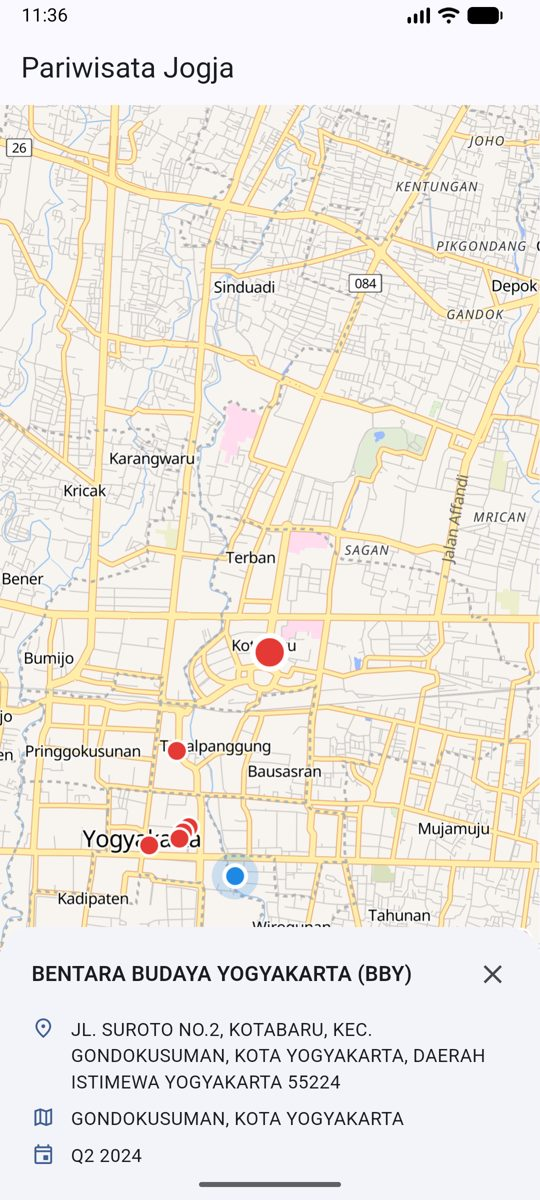
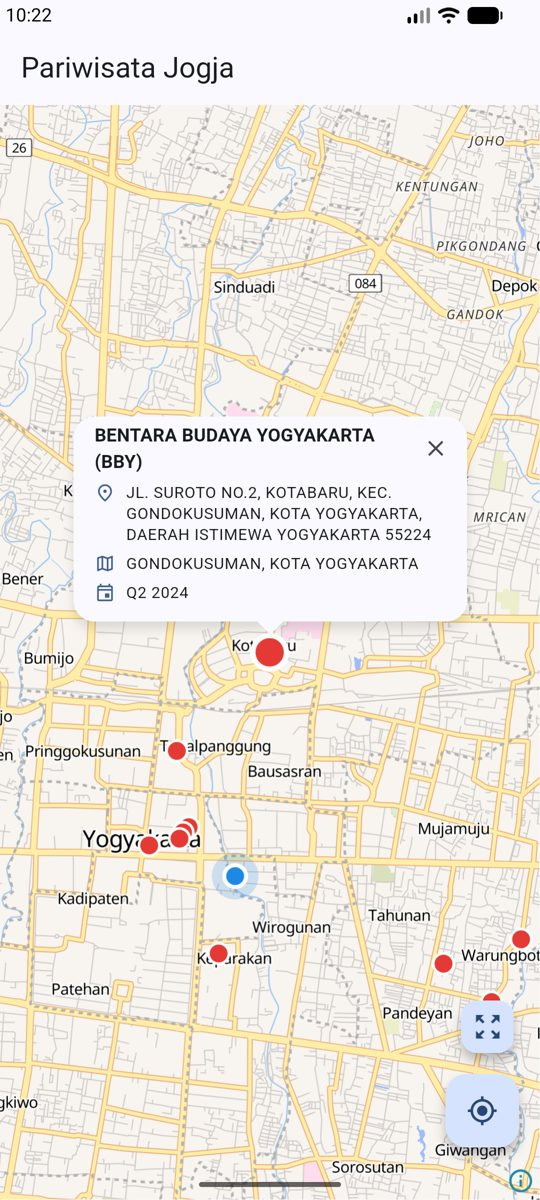
feat: anchor feature popup to the tapped point
The popup is now shown above the selected point instead of a bottom
sheet and follows it while the map pans or zooms.

diff --git a/lib/features/map/map_screen.dart b/lib/features/map/map_screen.dart
@@ -1,10 +1,12 @@
 import 'dart:math' show Point;
 
+import 'package:flutter/foundation.dart';
 import 'package:flutter/material.dart';
 import 'package:maplibre_gl/maplibre_gl.dart';
 
 import '../../core/constants/map_constants.dart';
 import '../../data/models/device_location.dart';
+import '../../data/models/layer_feature.dart';
 import '../../data/services/location_service.dart';
 import '../../data/services/mapid_layer_service.dart';
 import 'map_layer_renderer.dart';
@@ -28,7 +30,12 @@ class MapScreen extends StatefulWidget {
 }
 
 class _MapScreenState extends State<MapScreen> {
+  static const _popupOffset = 14.0;
+
   late final MapViewModel _viewModel;
+  final _popupAnchor = ValueNotifier<Offset?>(null);
+  bool _anchorUpdateRunning = false;
+  bool _anchorUpdatePending = false;
   MapLibreMapController? _mapController;
   MapLayerRenderer? _renderer;
   bool _mapReady = false;
@@ -47,7 +54,10 @@ class _MapScreenState extends State<MapScreen> {
 
   @override
   void dispose() {
-    _mapController?.onFeatureTapped.remove(_onFeatureTapped);
+    _mapController
+      ?..onFeatureTapped.remove(_onFeatureTapped)
+      ..removeListener(_updatePopupAnchor);
+    _popupAnchor.dispose();
     _viewModel
       ..removeListener(_syncMap)
       ..dispose();
@@ -55,7 +65,9 @@ class _MapScreenState extends State<MapScreen> {
   }
 
   void _onMapCreated(MapLibreMapController controller) {
-    _mapController = controller..onFeatureTapped.add(_onFeatureTapped);
+    _mapController = controller
+      ..onFeatureTapped.add(_onFeatureTapped)
+      ..addListener(_updatePopupAnchor);
     _renderer = MapLayerRenderer(controller);
   }
 
@@ -125,8 +137,10 @@ class _MapScreenState extends State<MapScreen> {
   ) {
     final feature = _viewModel.selectFeature(id);
     if (feature == null) return;
+    _popupAnchor.value = null;
     _renderer?.highlight(feature);
     _renderer?.focusOn(feature);
+    _updatePopupAnchor();
   }
 
   void _onMapClick(Point<double> point, LatLng coordinates) =>
@@ -134,8 +148,40 @@ class _MapScreenState extends State<MapScreen> {
 
   void _clearSelection() {
     _viewModel.clearSelection();
+    _popupAnchor.value = null;
     _renderer?.highlight(null);
   }
+
+  Future<void> _updatePopupAnchor() async {
+    if (_anchorUpdateRunning) {
+      _anchorUpdatePending = true;
+      return;
+    }
+    _anchorUpdateRunning = true;
+    do {
+      _anchorUpdatePending = false;
+      await _projectSelectedFeature();
+    } while (_anchorUpdatePending && mounted);
+    _anchorUpdateRunning = false;
+  }
+
+  Future<void> _projectSelectedFeature() async {
+    final feature = _viewModel.selectedFeature;
+    final renderer = _renderer;
+    if (feature == null || renderer == null) return;
+
+    final position = await renderer.screenPositionOf(
+      feature,
+      pixelRatio: _mapPixelRatio,
+    );
+    if (mounted && _viewModel.selectedFeature == feature) {
+      _popupAnchor.value = position;
+    }
+  }
+
+  double get _mapPixelRatio => defaultTargetPlatform == TargetPlatform.android
+      ? MediaQuery.devicePixelRatioOf(context)
+      : 1;
 
   @override
   Widget build(BuildContext context) {
@@ -147,6 +193,7 @@ class _MapScreenState extends State<MapScreen> {
         onMapCreated: _onMapCreated,
         onStyleLoadedCallback: _onStyleLoaded,
         onMapClick: _onMapClick,
+        trackCameraPosition: true,
       ),
       builder: (context, map) {
         final layer = _viewModel.layer;
@@ -166,6 +213,7 @@ class _MapScreenState extends State<MapScreen> {
           body: Stack(
             children: [
               map!,
+              if (feature != null) _buildPopup(feature),
               if (layerError != null)
                 Positioned(
                   top: 16,
@@ -178,22 +226,41 @@ class _MapScreenState extends State<MapScreen> {
                 ),
             ],
           ),
-          floatingActionButton: feature == null
-              ? MapActionButtons(
-                  isLocating: _viewModel.isLocating,
-                  onLocate: _locateUser,
-                  onShowAll: layer == null ? null : _showAllPlaces,
-                )
-              : null,
-          bottomSheet: feature == null
-              ? null
-              : FeaturePopup(
-                  key: ValueKey(feature.id),
-                  feature: feature,
-                  onClose: _clearSelection,
-                ),
+          floatingActionButton: MapActionButtons(
+            isLocating: _viewModel.isLocating,
+            onLocate: _locateUser,
+            onShowAll: layer == null ? null : _showAllPlaces,
+          ),
         );
       },
+    );
+  }
+
+  Widget _buildPopup(LayerFeature feature) {
+    return Positioned.fill(
+      child: ValueListenableBuilder<Offset?>(
+        valueListenable: _popupAnchor,
+        builder: (context, anchor, _) {
+          if (anchor == null) return const SizedBox.shrink();
+          return Stack(
+            clipBehavior: Clip.none,
+            children: [
+              Positioned(
+                left: anchor.dx,
+                top: anchor.dy - _popupOffset,
+                child: FractionalTranslation(
+                  translation: const Offset(-0.5, -1),
+                  child: FeaturePopup(
+                    key: ValueKey(feature.id),
+                    feature: feature,
+                    onClose: _clearSelection,
+                  ),
+                ),
+              ),
+            ],
+          );
+        },
+      ),
     );
   }
 }

diff --git a/lib/features/map/widgets/feature_popup.dart b/lib/features/map/widgets/feature_popup.dart
@@ -6,56 +6,77 @@ import '../../../data/models/layer_feature.dart';
 class FeaturePopup extends StatelessWidget {
   const FeaturePopup({super.key, required this.feature, required this.onClose});
 
+  static const maxWidth = 300.0;
+  static const _arrowSize = Size(20, 10);
+
   final LayerFeature feature;
   final VoidCallback onClose;
 
   @override
   Widget build(BuildContext context) {
     final theme = Theme.of(context);
+    final surface = theme.colorScheme.surface;
     final region = [
       feature[FeatureAttribute.district],
       feature[FeatureAttribute.city],
     ].nonNulls.join(', ');
 
-    return SafeArea(
-      top: false,
-      child: Padding(
-        padding: const EdgeInsets.fromLTRB(24, 12, 12, 24),
-        child: Column(
-          mainAxisSize: MainAxisSize.min,
-          crossAxisAlignment: CrossAxisAlignment.start,
-          children: [
-            Row(
-              children: [
-                Expanded(
-                  child: Text(
-                    feature[FeatureAttribute.name] ?? 'Unnamed location',
-                    style: theme.textTheme.titleMedium?.copyWith(
-                      fontWeight: FontWeight.w600,
-                    ),
+    return ConstrainedBox(
+      constraints: const BoxConstraints(maxWidth: maxWidth),
+      child: Column(
+        mainAxisSize: MainAxisSize.min,
+        children: [
+          Material(
+            color: surface,
+            elevation: 6,
+            shadowColor: Colors.black45,
+            borderRadius: BorderRadius.circular(16),
+            child: Padding(
+              padding: const EdgeInsets.fromLTRB(16, 4, 4, 14),
+              child: Column(
+                mainAxisSize: MainAxisSize.min,
+                crossAxisAlignment: CrossAxisAlignment.start,
+                children: [
+                  Row(
+                    children: [
+                      Expanded(
+                        child: Text(
+                          feature[FeatureAttribute.name] ?? 'Unnamed location',
+                          style: theme.textTheme.titleSmall?.copyWith(
+                            fontWeight: FontWeight.w700,
+                          ),
+                        ),
+                      ),
+                      IconButton(
+                        tooltip: 'Close',
+                        visualDensity: VisualDensity.compact,
+                        iconSize: 20,
+                        icon: const Icon(Icons.close),
+                        onPressed: onClose,
+                      ),
+                    ],
                   ),
-                ),
-                IconButton(
-                  tooltip: 'Close',
-                  icon: const Icon(Icons.close),
-                  onPressed: onClose,
-                ),
-              ],
+                  _AttributeRow(
+                    icon: Icons.place_outlined,
+                    value: feature[FeatureAttribute.address],
+                  ),
+                  _AttributeRow(
+                    icon: Icons.map_outlined,
+                    value: region.isEmpty ? null : region,
+                  ),
+                  _AttributeRow(
+                    icon: Icons.event_outlined,
+                    value: feature[FeatureAttribute.period],
+                  ),
+                ],
+              ),
             ),
-            _AttributeRow(
-              icon: Icons.place_outlined,
-              value: feature[FeatureAttribute.address],
-            ),
-            _AttributeRow(
-              icon: Icons.map_outlined,
-              value: region.isEmpty ? null : region,
-            ),
-            _AttributeRow(
-              icon: Icons.event_outlined,
-              value: feature[FeatureAttribute.period],
-            ),
-          ],
-        ),
+          ),
+          CustomPaint(
+            size: _arrowSize,
+            painter: _ArrowPainter(color: surface),
+          ),
+        ],
       ),
     );
   }
@@ -74,15 +95,34 @@ class _AttributeRow extends StatelessWidget {
 
     final theme = Theme.of(context);
     return Padding(
-      padding: const EdgeInsets.only(top: 8, right: 8),
+      padding: const EdgeInsets.only(top: 6, right: 12),
       child: Row(
         crossAxisAlignment: CrossAxisAlignment.start,
         children: [
-          Icon(icon, size: 18, color: theme.colorScheme.primary),
-          const SizedBox(width: 12),
-          Expanded(child: Text(value, style: theme.textTheme.bodyMedium)),
+          Icon(icon, size: 16, color: theme.colorScheme.primary),
+          const SizedBox(width: 8),
+          Expanded(child: Text(value, style: theme.textTheme.bodySmall)),
         ],
       ),
     );
   }
+}
+
+class _ArrowPainter extends CustomPainter {
+  const _ArrowPainter({required this.color});
+
+  final Color color;
+
+  @override
+  void paint(Canvas canvas, Size size) {
+    final path = Path()
+      ..moveTo(0, 0)
+      ..lineTo(size.width / 2, size.height)
+      ..lineTo(size.width, 0)
+      ..close();
+    canvas.drawPath(path, Paint()..color = color);
+  }
+
+  @override
+  bool shouldRepaint(_ArrowPainter oldDelegate) => oldDelegate.color != color;
 }

diff --git a/lib/features/map/map_layer_renderer.dart b/lib/features/map/map_layer_renderer.dart
@@ -1,4 +1,5 @@
 import 'dart:math' as math;
+import 'dart:ui' show Offset;
 
 import 'package:maplibre_gl/maplibre_gl.dart';
 
@@ -110,6 +111,16 @@ class MapLayerRenderer {
     await _controller.animateCamera(
       CameraUpdate.newLatLng(LatLng(feature.latitude, feature.longitude)),
     );
+  }
+
+  Future<Offset> screenPositionOf(
+    LayerFeature feature, {
+    required double pixelRatio,
+  }) async {
+    final point = await _controller.toScreenLocation(
+      LatLng(feature.latitude, feature.longitude),
+    );
+    return Offset(point.x / pixelRatio, point.y / pixelRatio);
   }
 
   Future<void> showUserLocation(DeviceLocation location) {

diff --git a/lib/core/theme/app_theme.dart b/lib/core/theme/app_theme.dart
@@ -6,11 +6,5 @@ abstract final class AppTheme {
   static ThemeData get light => ThemeData(
     colorScheme: ColorScheme.fromSeed(seedColor: seedColor),
     useMaterial3: true,
-    bottomSheetTheme: const BottomSheetThemeData(
-      elevation: 8,
-      shape: RoundedRectangleBorder(
-        borderRadius: BorderRadius.vertical(top: Radius.circular(24)),
-      ),
-    ),
   );
 }

diff --git a/README.md b/README.md
@@ -12,7 +12,7 @@ A Flutter app that shows a GEO MAPID data layer on top of an OpenFreeMap basemap
 
 - **Basemap** — OpenFreeMap [Liberty](https://tiles.openfreemap.org/styles/liberty) style rendered with [`maplibre_gl`](https://pub.dev/packages/maplibre_gl).
 - **GEO MAPID layer** — points from the GEO MAPID `get_layer` endpoint, drawn as a native circle layer above the basemap with name labels at higher zoom levels. The camera fits all points on load.
-- **Popup** — tapping a point highlights it and opens a sheet with its name, address, district/city and period. Tapping the map or the close button dismisses it.
+- **Popup** — tapping a point highlights it and opens a popup anchored above it with its name, address, district/city and period. The popup follows the point while the map moves; tapping the map or the close button dismisses it.
 - **User location** — requests permission, gets the current GPS position and shows it as a live-updating dot. The location button centers the map on the user.
 - **Resilience** — loading indicator, error banner with retry for the layer request, and clear messages (with a shortcut to settings) when location permission is denied or location services are off.
 
@@ -91,6 +91,7 @@ lib/
 - **Separation of concerns.** Services handle I/O and return plain models, `MapViewModel` owns screen state, and `MapLayerRenderer` is the only place that talks to MapLibre's layer and camera APIs. The screen connects the three. State management uses `ChangeNotifier` from the Flutter SDK, which is enough for a single screen.
 - **Native layers instead of annotations.** The data is added as a GeoJSON source with circle and symbol layers, so it is styled and hit-tested by the map engine. The user position is its own layer as well, which keeps it above the data layer.
 - **Tap handling.** `maplibre_gl` routes taps on interactive layers to `onFeatureTapped` rather than `onMapClick`, so the popup listens to `onFeatureTapped` and `onMapClick` is only used to dismiss it.
+- **Anchored popup.** The popup is a Flutter widget positioned with `toScreenLocation` and re-projected on every camera change, so it stays attached to its point. Only the popup rebuilds on camera moves, not the whole screen.
 - **Data cleanup.** Some names in the source data contain corrupted characters (e.g. `TAMAN WARUNGBOTO (ʦ�ʦ�…)`). `TextSanitizer` removes these groups before the text is shown in labels or popups.
 - **Credentials.** The API key lives in `.env`, which is git-ignored, and never appears in source code. Because `flutter_dotenv` bundles `.env` as an asset, the key is still present inside the built APK; this is inherent to any client-side key. A production app would call the API through a backend proxy.
 
